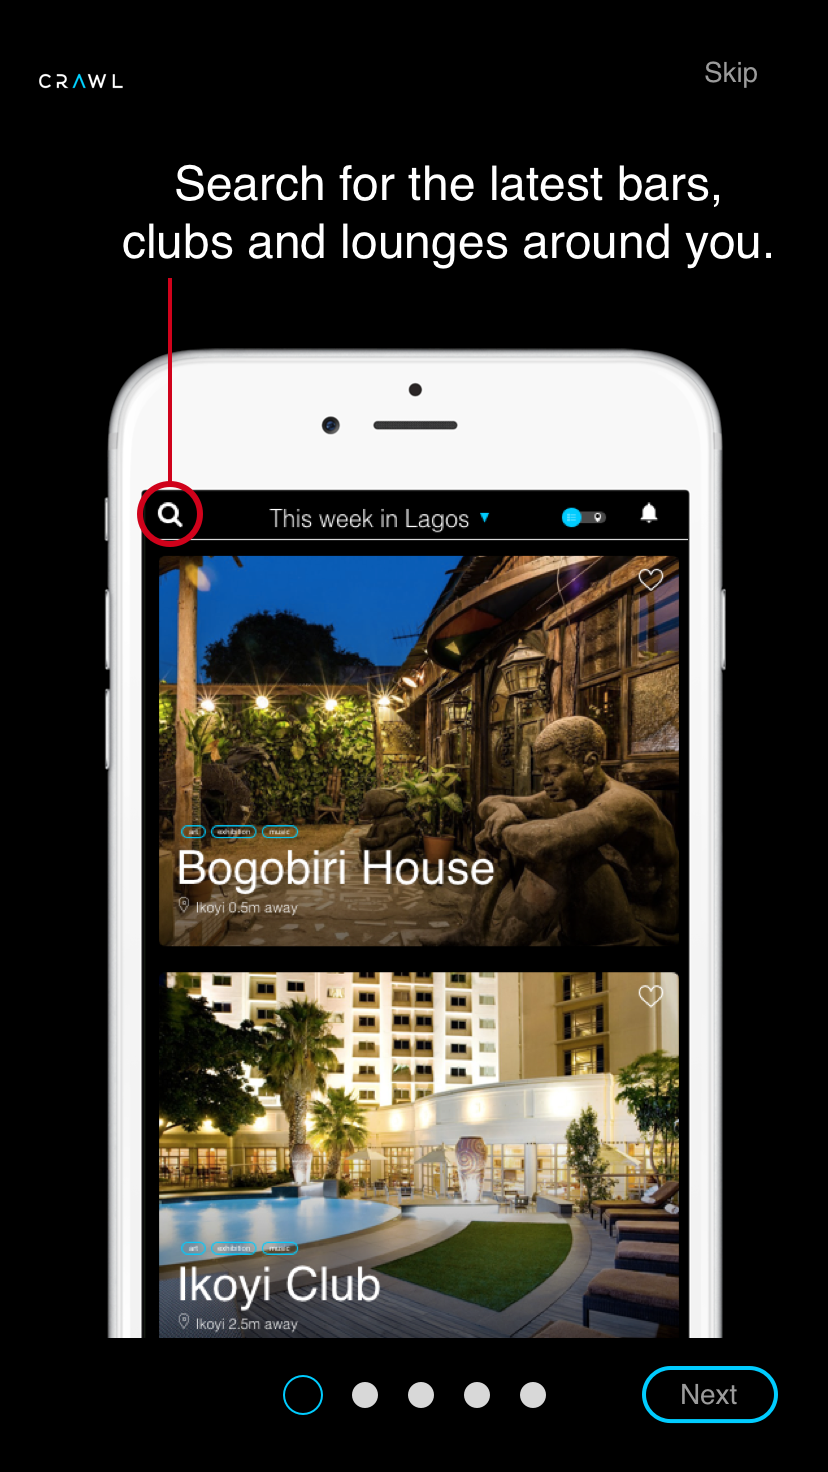
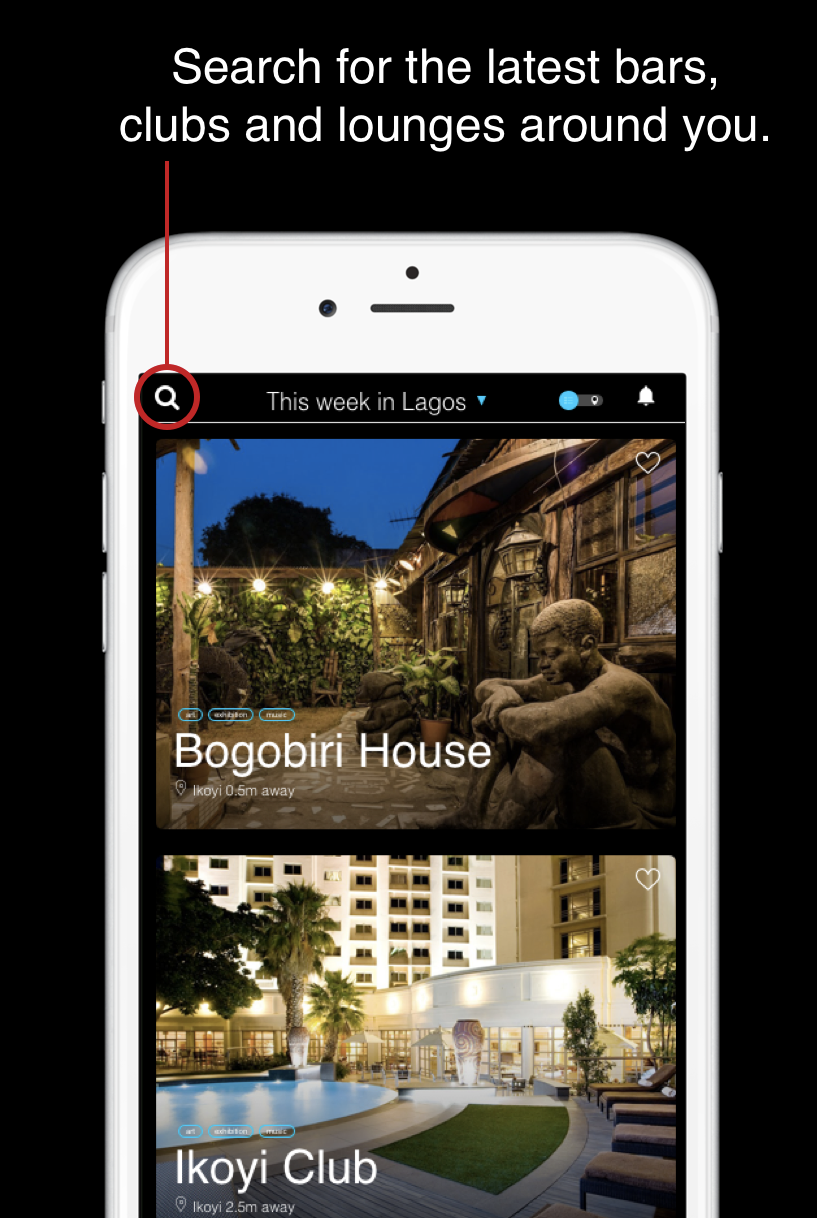
* HappeningsApp.iOS.csproj: made good updates
* Info.plist:
* Intro.xaml:
* AppLanding.xaml:
* Constants.cs:
* LogService.cs:
* Profile.xaml:
* DetailPage.xaml:
* Profile.xaml.cs:
* ONBOARDING.png:
* ONBOARDING4.png:
* ONBOARDING5.png:
* LoginEmail.xaml.cs:
* QuestionsAboutYou.xaml:

diff --git a/HappeningsApp/HappeningsApp/Pages/AppLanding.xaml b/HappeningsApp/HappeningsApp/Pages/AppLanding.xaml
@@ -7,7 +7,6 @@
              BackgroundColor="#000015" 
              xmlns:ios="clr-namespace:Xamarin.Forms.PlatformConfiguration.iOSSpecific;assembly=Xamarin.Forms.Core" 
              ios:Page.UseSafeArea="true"
-             xmlns:ffSvg="clr-namespace:FFImageLoading.Svg.Forms;assembly=FFImageLoading.Svg.Forms"
              xmlns:ff="clr-namespace:FFImageLoading.Forms;assembly=FFImageLoading.Forms"
              >
     <Grid RowSpacing="0">
@@ -24,7 +23,10 @@
                 <ColumnDefinition Width="70*" />
                 <ColumnDefinition Width="15*" />
             </Grid.ColumnDefinitions>
-                <Image Source="ic_search_white.png" HeightRequest="20" Scale="1.2" 
+                <Image Source="ic_search_white.png" 
+                       HeightRequest="20" 
+                       Scale="1.2" 
+                       TranslationY="5"
                        WidthRequest="20" 
                        Opacity="0.9" Grid.Column="0"
                        Margin="0,0,10,10" HorizontalOptions="EndAndExpand" VerticalOptions="Center">
@@ -52,7 +54,7 @@
         
         <ContentView x:Name="PlaceHolder" Grid.Row="2" />
         <BoxView HeightRequest="0.1" Color="LightGray" Grid.Row="3" Opacity="0.5" />
-        <Grid Grid.Row="4" x:Name="gridNavBar" Margin="0,5,0,0" RowSpacing="0" BackgroundColor="Black">
+        <Grid Grid.Row="4" x:Name="gridNavBar" Margin="0,0,0,0" RowSpacing="0" BackgroundColor="Black">
             <Grid.ColumnDefinitions>
                 <ColumnDefinition Width="*" />
                 <ColumnDefinition Width="*" />
@@ -64,13 +66,12 @@
                 <StackLayout.GestureRecognizers>
                     <TapGestureRecognizer x:Name="ThisWeek" Tapped="ThisWeek_Tapped" />
                 </StackLayout.GestureRecognizers>
-                <Image  x:Name="imgThisWeek"  Source="ic_small_calendar" WidthRequest="22" HeightRequest="22" />
-           <!--    <ff:CachedImage x:Name="imgThisWeek" WidthRequest="22" HeightRequest="22" 
-                          Source="ic_small_calendar">
-                    
-                 
-                </ff:CachedImage>-->
-                <Label  Text="This Weeks" TextColor="{x:StaticResource CrawlColor}" x:Name="lblThisWeek" VerticalOptions="CenterAndExpand" FontSize="12" HorizontalOptions="Center" />
+                <Image  x:Name="imgThisWeek"  
+                        Source="ic_small_calendar" 
+                        WidthRequest="28"
+                        HeightRequest="28" />
+  
+                <Label  Text="This Week" TextColor="{x:StaticResource CrawlColor}" x:Name="lblThisWeek" VerticalOptions="CenterAndExpand" FontSize="12" HorizontalOptions="Center" />
                 
             </StackLayout>
             <!--    <StackLayout IsVisible="false" Spacing="0" Grid.Column="1" BackgroundColor="Transparent">
@@ -84,20 +85,29 @@
                 <StackLayout.GestureRecognizers>
                     <TapGestureRecognizer x:Name="Categories" Tapped="Categories_Tapped" />
                 </StackLayout.GestureRecognizers>
-                <Image x:Name="imgCat" Source="ic_sort_with_three_lines_white" WidthRequest="22" HeightRequest="22" />
+                <Image x:Name="imgCat" 
+                       Source="ic_sort_with_three_lines_white" 
+                       WidthRequest="28" 
+                       HeightRequest="28" />
                   <!--  <ffSvg:SvgCachedImage x:Name="imgCat" BackgroundColor="White"  WidthRequest="22" 
                                           HeightRequest="22" 
                           Source="resource://HappeningsApp.Resources.sort-button-with-three-lines.svg">
                  
                 </ffSvg:SvgCachedImage>-->
-                <Label Text="Categories" x:Name="lblCategories" VerticalOptions="CenterAndExpand" FontSize="12" TextColor="{x:StaticResource CrawlColor}" HorizontalOptions="Center" />
+                <Label Text="Categories" 
+                       x:Name="lblCategories" 
+                       VerticalOptions="CenterAndExpand" 
+                       FontSize="12" 
+                       TextColor="{x:StaticResource CrawlColor}" 
+                       HorizontalOptions="Center" />
                
             </StackLayout>
             <StackLayout Spacing="0" Grid.Column="2" BackgroundColor="Transparent">
                 <StackLayout.GestureRecognizers>
                     <TapGestureRecognizer x:Name="Favorites" Tapped="Favorites_Tapped" />
                 </StackLayout.GestureRecognizers>
-                <Image  x:Name="imgFav" Source="ic_favorite_border" WidthRequest="22" HeightRequest="22" />
+                <Image  x:Name="imgFav" Source="ic_favorite_border" 
+                        WidthRequest="28" HeightRequest="28" />
                    <!--  <ffSvg:SvgCachedImage x:Name="imgFav" BackgroundColor="White"  WidthRequest="22" 
                                           HeightRequest="22" 
                           Source="resource://HappeningsApp.Resources.likeCopy.svg">
@@ -110,7 +120,8 @@
                     <TapGestureRecognizer x:Name="Profiles" Tapped="Profiles_Tapped" />
                 </StackLayout.GestureRecognizers>
                
-                <Image  x:Name="imgProf" Source="ic_user_white" WidthRequest="22" HeightRequest="22" />
+                <Image  x:Name="imgProf" Source="ic_user_white" 
+                        WidthRequest="28" HeightRequest="28" />
                 <!--     <ffSvg:SvgCachedImage x:Name="imgProf" BackgroundColor="White"  WidthRequest="22" 
                                           HeightRequest="22" 
                           Source="resource://HappeningsApp.Resources.user.svg">

diff --git a/HappeningsApp/HappeningsApp/Pages/ProfileData/QuestionsAboutYou.xaml b/HappeningsApp/HappeningsApp/Pages/ProfileData/QuestionsAboutYou.xaml
@@ -11,14 +11,40 @@
         </ToolbarItem>
     </ContentPage.ToolbarItems>
     <ContentPage.Content>
-        <ScrollView>
-              <StackLayout>
+        <StackLayout>
+               <Grid Margin="10" >
+                    <Grid.ColumnDefinitions>
+                        <ColumnDefinition Width="auto"/>
+                        <ColumnDefinition Width="*"/>
+                    </Grid.ColumnDefinitions>
+                    
+                    <Image Grid.Column="0" 
+                           Source="ic_clear_blue" 
+                           WidthRequest="20" 
+                           HeightRequest="20"
+                           
+                           >
+                        <Image.GestureRecognizers>
+                            <TapGestureRecognizer Tapped="Skip_Clicked"/>
+                        </Image.GestureRecognizers>
+                        </Image>
+                    <Label HorizontalOptions="Center" 
+                        Text="Please tell us about yourself" 
+                           Grid.Column="1"
+                           FontSize="22"
+                           />
+                </Grid>
+        
+           <ScrollView>
+              <StackLayout Spacing="20" >
             <!--<StackLayout Orientation="Horizontal">
                 <Label Text="Please tell us about yourself" Margin="12" VerticalOptions="Center" TextColor="White" HorizontalOptions="StartAndExpand"/> 
                 <Button Text="skip" TextColor="#E8E8E8" Margin="5,0" BorderColor="White"  FontSize="Small"/>
             </StackLayout>-->
             <!--              <BoxView BackgroundColor="#E8E8E8" HeightRequest="1" Margin="4"/>-->
-            <StackLayout Padding="12,12,44,12" Spacing="15">
+           
+             
+                <StackLayout Padding="12,12,44,12" Spacing="15">
                 <StackLayout Spacing="5" x:Name="txtFriendsCall">
                     <c:BorderlessEntry 
                             Placeholder="What do your friends call you" 
@@ -74,17 +100,20 @@
             
             
              <!--   <Slider Value="30000" Minimum="0" Maximum="100000" IsEnabled="True" />-->
-                    <InputKit:AdvancedSlider 
+                <StackLayout>
+                            <InputKit:AdvancedSlider 
                         MinValue="0" 
                         MaxValue="500000" 
                         IsEnabled="true" 
                         StepValue="500" 
                         Title="Spending how much?"
                         TextColor="White"
-                      
+                      DisplayMinMaxValue="false"
+                       
                         Value="{Binding Amount}"
                     
                     />
+                    </StackLayout>
                 <c:ExtendedPicker SelectedIndex="{Binding surveyModel.How_Did_You_hear}" BoxUnderlineColor="White" Title="How did you hear about us?" x:Name="drpHearAboutUs" />
             
             </StackLayout>
@@ -94,14 +123,11 @@
                     Padding="18,1" BorderColor="Aqua" BorderWidth="2" FontSize="13" TextColor="White">
              
             </Button>
-                  <Button Margin="50,5,50,0" Text="Skip" BorderRadius="20" 
-                   
-                    BackgroundColor="Black" 
-                    Padding="18,1" BorderColor="Aqua" Clicked="Skip_Clicked" BorderWidth="2" FontSize="13" TextColor="White">
-             
-            </Button>
+                 
         </StackLayout>
         </ScrollView>
+        </StackLayout>
+     
       
     </ContentPage.Content>
 </ContentPage>

diff --git a/HappeningsApp/HappeningsApp/Pages/Home/Profile.xaml b/HappeningsApp/HappeningsApp/Pages/Home/Profile.xaml
@@ -4,12 +4,20 @@
         <ScrollView>
             <StackLayout>
                 <Grid RowSpacing="-80" Margin="0,10,0,0">
-                    <StackLayout Padding="5" Orientation="Horizontal">
+                    <Grid.ColumnDefinitions>
+                        <ColumnDefinition Width="0.9*" />
+                        <ColumnDefinition Width="auto" />
+                    </Grid.ColumnDefinitions>
+                    <StackLayout  
+                                 Grid.Column="0" 
+                                 Padding="5" 
+                                 Spacing="40" 
+                                 Orientation="Horizontal">
                         <Image:CircleImage Aspect="AspectFit" BorderColor="White" BorderThickness="2" Margin="0,20,0,0" BackgroundColor="White" Source="usero.png" HorizontalOptions="Center" VerticalOptions="CenterAndExpand" />
-                        <StackLayout Padding="5">
-                            <Label Text="User name" TextColor="White" FontSize="Small" />
-                            <Label Text="0945834848" TextColor="White" FontSize="Small" />
-                            <Label Text="user@email.com" TextColor="White" FontSize="Small" />
+                        <StackLayout Padding="5" VerticalOptions="End" HorizontalOptions="End" >
+                            <Label IsVisible="false" Text="User name" TextColor="White" FontSize="Small" />
+                            <Label IsVisible="false" Text="0945834848" TextColor="White" FontSize="Small" />
+                            <Label Text="{Binding userEmail}" TextColor="White" FontSize="Small" />
                         </StackLayout>
                     </StackLayout>
                     <c:ExtendedLabel Grid.Row="1" Grid.ColumnSpan="2" Margin="0,-40,0,0" ItemTapped="ExtendedLabel_ItemTapped" />

diff --git a/HappeningsApp/HappeningsApp/Pages/Home/DetailPage.xaml b/HappeningsApp/HappeningsApp/Pages/Home/DetailPage.xaml
@@ -56,7 +56,7 @@
                         </Image>
                     </StackLayout>
                     
-                    <Label Text="Back" Grid.Column="1" HorizontalOptions="Start">
+                    <Label Text="Back.." Grid.Column="1" FontSize="18" HorizontalOptions="Start">
                         
                             <Label.GestureRecognizers>
                                 <TapGestureRecognizer Tapped="Go_Back_Tapped" NumberOfTapsRequired="1" />
@@ -71,7 +71,7 @@
                         </Image>
                     </StackLayout>
                     <StackLayout Orientation="Horizontal" HorizontalOptions="End" Grid.Column="3">
-                        <Image VerticalOptions="Start" Source="ic_favorite_border" Scale="1" WidthRequest="22" HeightRequest="22">
+                        <Image VerticalOptions="Start" Source="ic_favorite_border" Scale="1.5" WidthRequest="22" HeightRequest="22">
                             <Image.GestureRecognizers>
                                 <TapGestureRecognizer Tapped="Go_Back_Tapped" NumberOfTapsRequired="1" />
                             </Image.GestureRecognizers>

diff --git a/HappeningsApp/HappeningsApp/Pages/Intro.xaml b/HappeningsApp/HappeningsApp/Pages/Intro.xaml
@@ -7,6 +7,8 @@
              BackgroundColor="Black"
              xmlns:ff="clr-namespace:FFImageLoading.Forms;assembly=FFImageLoading.Forms" 
              
+             xmlns:ios="clr-namespace:Xamarin.Forms.PlatformConfiguration.iOSSpecific;assembly=Xamarin.Forms.Core" 
+             ios:Page.UseSafeArea="true"
              >
     <ContentPage.Content>
         <Grid>

diff --git a/HappeningsApp/HappeningsApp/Pages/Onboarding/LoginEmail.xaml.cs b/HappeningsApp/HappeningsApp/Pages/Onboarding/LoginEmail.xaml.cs
@@ -5,6 +5,8 @@ using HappeningsApp.Services;
 using HappeningsApp.ViewModels;
 using HappeningsApp.Views;
 using HappeningsApp.Views.Settings;
+using Microsoft.AppCenter.Analytics;
+using Microsoft.AppCenter.Crashes;
 using Plugin.Connectivity;
 using Xamarin.Auth;
 using Xamarin.Forms;
@@ -47,6 +49,11 @@ namespace HappeningsApp.Pages.Onboarding
                 }
                 using (UserDialogs.Instance.Loading(""))
                 {
+                    Analytics.TrackEvent("logging on", new Dictionary<string, string> {
+                        { "User", GlobalStaticFields.Username},
+                        { "Date", DateTime.Now.Date.ToString("MM/dd/yyyy HH:mm tt")},
+
+                       });
                     GlobalStaticFields.Username = lvm.User.Username;
                     var resp = await lvm.GetTokenFromAPI();
                     if (resp)
@@ -64,8 +71,15 @@ namespace HappeningsApp.Pages.Onboarding
             }
             catch (Exception ex)
             {
-                await DisplayAlert("", "Error Navigation", "OK");
+                await DisplayAlert("", "Error Navigating", "OK");
                 var log = ex;
+                LogService.LogErrors("Error Navigating" + ex.ToString());
+                Crashes.TrackError(ex, new Dictionary<string, string> {
+                            { "User", GlobalStaticFields.Username },
+                            { "Date", DateTime.Now.Date.ToString("MM/dd/yyyy HH:mm tt")},
+                            { "AppID", "no idea" },
+                             { "someMeaningfulID", "id" }
+                         });
                 //test
             }
 

diff --git a/HappeningsApp/HappeningsApp/Services/Constants.cs b/HappeningsApp/HappeningsApp/Services/Constants.cs
@@ -11,7 +11,8 @@ namespace HappeningsApp.Services
         public const string redirectURI = "https://www.facebook.com/connect/login_success.html";
         public const string graphAPI = "https://graph.facebook.com/v3.0/me/?fields=name,picture,work,website,religion,location,age_range,email,first_name,last_name,gender,hometown";
         public const string graphAPIs = "https://graph.facebook.com/v3.1/me?fields=id,name,email,first_name,last_name,middle_name";
-        public const string CrawlAPI = "http://crawlapi.azurewebsites.net/";
+        //public const string CrawlAPI = "http://crawlapi.azurewebsites.net/";
+        public const string CrawlAPI = "http://Crawlwebapi.azurewebsites.net/";
 
 
 

diff --git a/HappeningsApp/HappeningsApp/Services/LogService.cs b/HappeningsApp/HappeningsApp/Services/LogService.cs
@@ -20,9 +20,8 @@ namespace HappeningsApp.Services
             //};
            // await APIService.LogClient<LogModel>(logger, "api/Error");
 
-            //commented this on 15 may 2019  so that i can work offline
-            //var l=await  Task.Run(async()=> await APIService.LogAsync(error));
-            //var cont = await l.Content.ReadAsStringAsync();
+            var l=await  Task.Run(async()=> await APIService.LogAsync(error));
+            var cont = await l.Content.ReadAsStringAsync();
         }
 
         public async static Task LogErrorsNew(string error="",string request="",

diff --git a/HappeningsApp/HappeningsApp/Pages/Home/Profile.xaml.cs b/HappeningsApp/HappeningsApp/Pages/Home/Profile.xaml.cs
@@ -9,10 +9,13 @@ namespace HappeningsApp.Pages.Home
 {
     public partial class Profile : ContentPage
     {
+        public string userEmail { get; set; }
         public Profile()
         {
             InitializeComponent();
+            userEmail = GlobalStaticFields.Username;
             //((NavigationPage)Application.Current.MainPage).BarBackgroundColor = Color.Black;
+            BindingContext = this;
         }
 
         private async void ExtendedLabel_ItemTapped(object sender, Custom.ExtendedLabelTappedEvent e)
